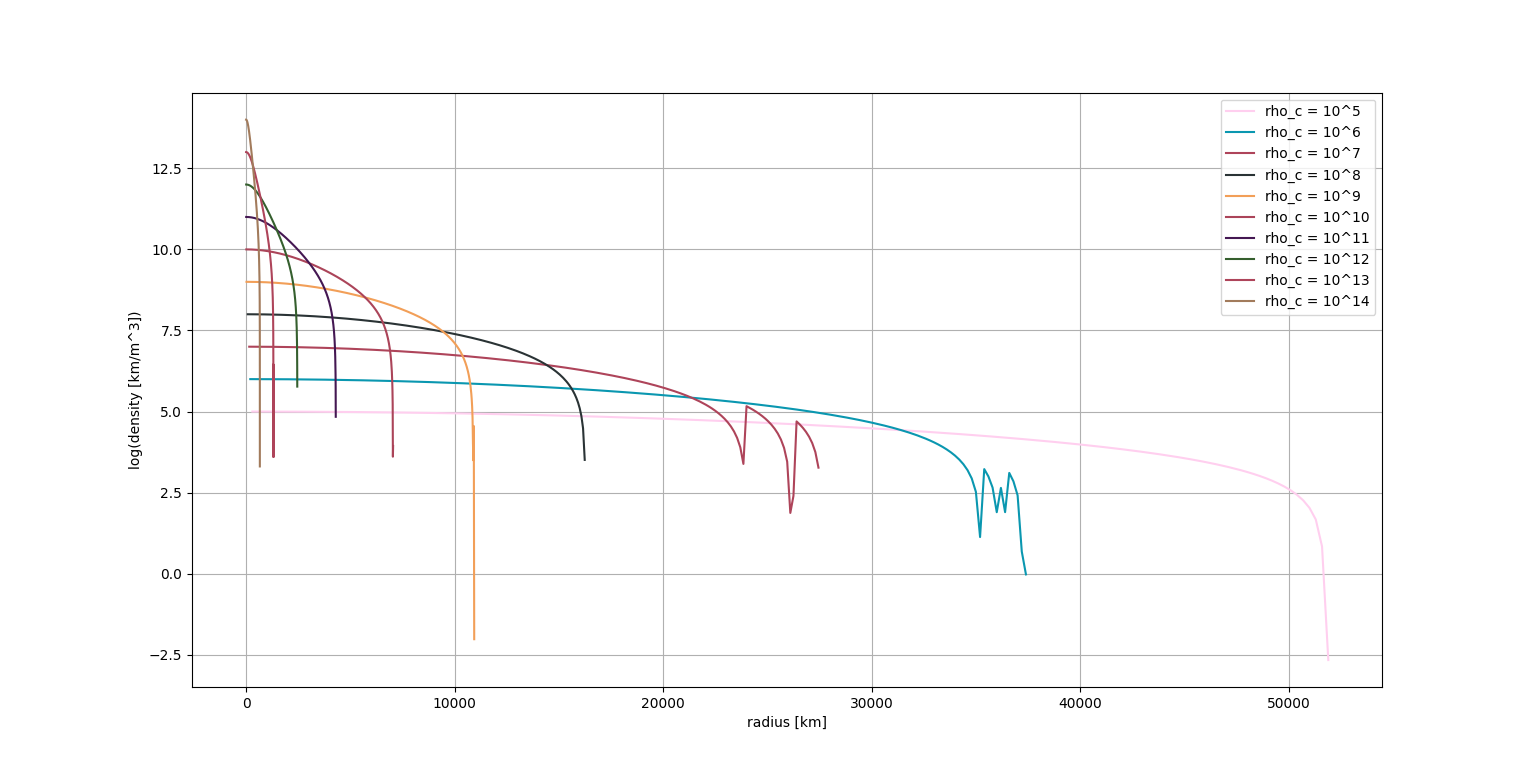
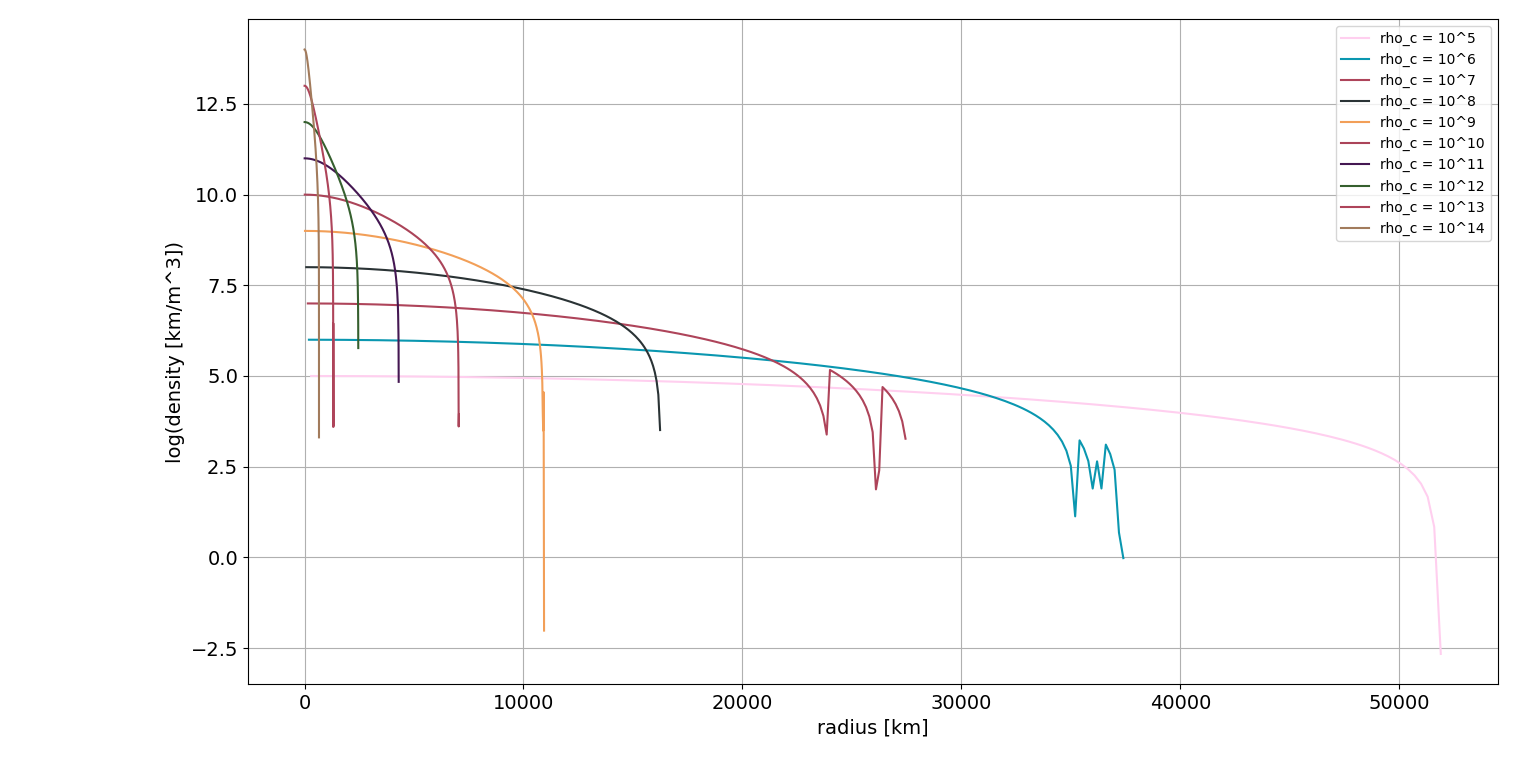
Regenerated plots

diff --git a/II/white_dwarf.py b/II/white_dwarf.py
@@ -229,6 +229,8 @@ def mu_to_SM(
 
 
 def main():
+    # Uncomment the stopping condition modification above to get report Figure 2.
+
     initial_values = np.array([[5, 300], [6, 200], [7, 150], [8, 80], [9, 20],
                               [10, 10], [11, 5], [12, 3], [13, 1], [14, 0.5]])
     colours = ('#FFCFEF', '#0A97B0', '#AE445A', '#2A3335', '#F29F58',
@@ -261,7 +263,7 @@ def main():
         print()
 
 
-    plt.figure(figsize = (8, 6))
+    plt.figure(figsize = (6, 6))
                             # plot density as function of the radius
     for ksi, x, mu, col, idx in zip(ksi_s, x_s, mu_s, colours, initial_values):
         # first calculate the radius and rho by applying the conversion iteratively
@@ -271,11 +273,14 @@ def main():
                  np.log10(rhos),
                  color = col,
                  label = f'rho_c = 10^{int(idx[0])}')
-    plt.xlabel('radius [km]')
-    plt.ylabel('log(density [km/m^3])')
+    plt.xlabel('radius [km]', fontsize = 14)
+    plt.ylabel('log(density [km/m^3])', fontsize = 14)
+    plt.xticks(fontsize = 14)
+    plt.yticks(fontsize = 14)
     # plt.ylim(-0.1, plt.ylim()[1])
     plt.legend()
     plt.grid()
+    plt.tight_layout()
     plt.show() 
     #                         # plot radius in km as function of mass in solar masses
     # for ksi, x, mu, col, idx in zip(ksi_s, x_s, mu_s, colours, initial_values):
@@ -296,11 +301,14 @@ def main():
              final_radii,
              marker = 'o',
              color = '#441752')
-    plt.xlabel('mass [solar masses]')
-    plt.ylabel('radius [km]')
+    plt.xlabel('mass [solar masses]', fontsize = 14)
+    plt.ylabel('radius [km]', fontsize = 14)
+    plt.xticks(fontsize = 14)
+    plt.yticks(fontsize = 14)
     plt.ylim(bottom = 0)
-    plt.legend()
+    # plt.legend()
     plt.grid()
+    plt.tight_layout()
     plt.show()  
 
 
